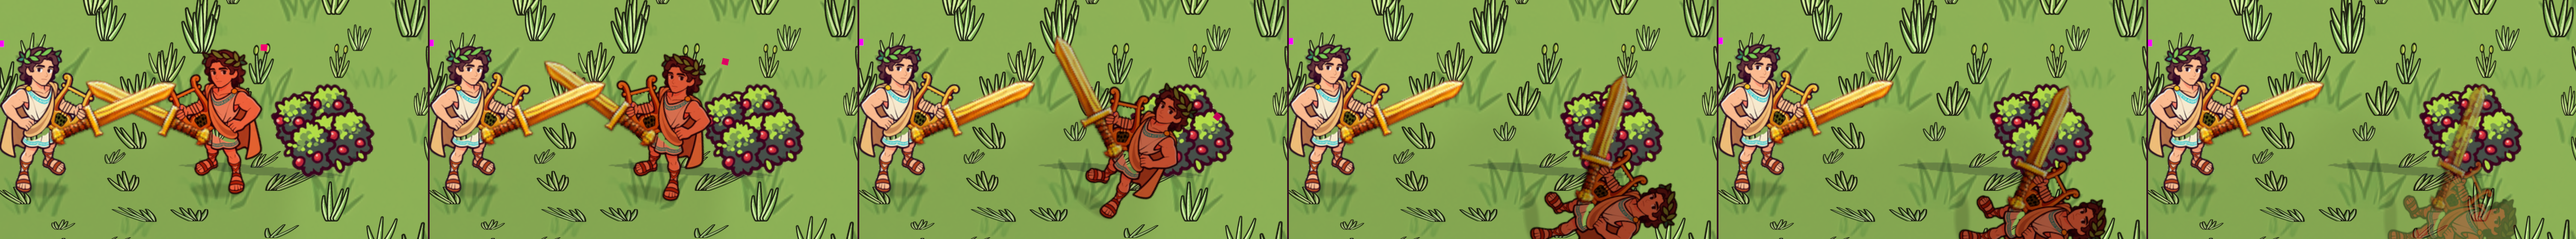
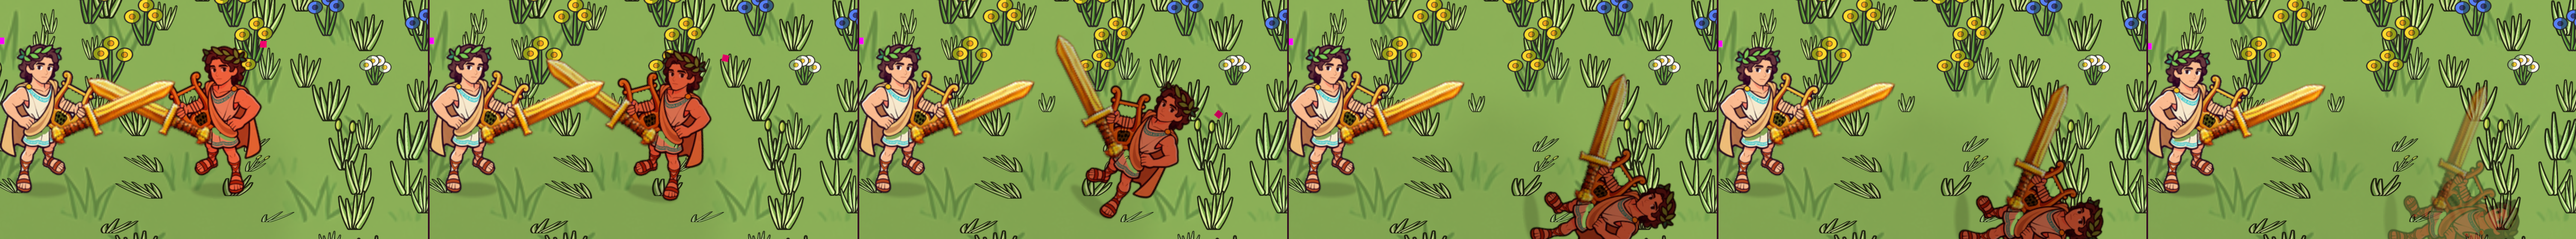
E3-4: журнал после слияния — переснятая лента (с 34 с, сцена южнее), снимки, backlog
Конфликты слияния f7f5b02 разрулены в merge-коммите; полный прогон
build_client -Smoke -HostSmoke на main — код 0. Кадры E3-4 пересняты,
просмотрены. Замечания П (утечка _deadAge, нет юнит-тестов на рантайм
клиента) — в backlog.

diff --git a/work/next.md b/work/next.md
@@ -66,7 +66,7 @@
 - [x] **C-025** ci.ps1 гоняет dotnet на скрытом рабочем столе (HiddenCi + env-блок против MSBuild-узлов) — **слито 17.11** (merge `0eb0e3f`, П принято с замечаниями). conhost от testhost/серверов/MSBuild на столе Автора 1→0; CI +14 с. Хвосты → backlog: stdin-таймаут шага, `Join-CmdLine` слэш перед кавычкой, ANSI env портит не-ASCII.
 - [x] **C-023** ч. 2: меч не проходит стык «лесенки» стен в полтайла — **слито 17.11** (merge `4bd8eb8`, оракул П принято): тест `C023_StrikeLine_HalfCellStaircase_Corner_Blocks` (5/5), общий обход ячеек 0,5 `FirstBlockedCellStep`/`CellSolidForStrike`, обёртка стрел эквивалентна (200/200 + 80/80, мутация убрана — тест красный); клиент host-smoke 0. Хвосты → backlog: тест необязательности концов отрезка (M2), субпиксельный срез ≤0,25 т.
 - [x] **C-026** хвосты C-025 в `ci.ps1` (таймаут шага, параллельный грейс, MSVC `Join-CmdLine`, тест-гард `-SelfTest`) — **слита 17.11**: плюс починка канализации stdin (`STARTUPINFOEX`+handle list, EOF 0,1 с; в Add-Type PS 5.1 `SECURITY_ATTRIBUTES` не применяется). SelfTest 0; CI 1238/1238, 172,6 с; П принято (мутации М1–М3 красные).
-- [ ] **3.4 (E3-4)** враги и удары видны: замах, попадание, смерть, снаряд — **в работе 17.11** (ветка `task/E3-4`, копия `te34`; только клиент: вид врага из снимка, сектор-призрак без дубля спрайта, силуэт за кроной, лента кадров).
+- [x] **3.4 (E3-4)** враги и удары видны: замах, попадание, смерть, снаряд — **слито 18.11** (merge `f7f5b02`, только клиент; П принято с замечаниями). Хвосты: утечка записей призрака `_deadAge` (backlog); снимок «силуэт за кроной» — проверить в 3.5; юнит-тестов на Unity-рантайм нет (мутация B выжила).
 - [x] **C-029** стройка и интерфейс после приёмки 2.8: один расчёт цели BuildCursor (смещение на клетку и снос верстака), пипетка (СКМ/G), дверь поверх стены, подсказки ингредиентов, остаток красным, карта M, шахматка «поштучно», без «С» — **слито 18.11** (П: два круга, принято). Хвосты: подсказка «не хватает» + «в сумке» одновременно; дверь без заказчика заменяет стену без возврата.
 - [x] **C-031** стрелы: стрела-предмет, подбор проходом, пропадание 10 мин вне экранов / предел 10 000, потолок полёта 10 с, непрерывная стрельба — **слито 18.11** (протокол 32, сейв 14; П принято). Хвосты: тесты «куча у персонажа не исчезает», «Covers и вода»; ограничить отправку куч за такт; вопросы Автору — попавшая в существо стрела, окно 52×32.
 - [x] **C-027** мир после приёмки: генератор v9 (глубина — стена для ходьбы, медь у старта, три вида леса, без троп), растения-декор, силуэт за горой — **слито 18.11** (П: вернуть → исправлено). Хвосты: силуэт только своего персонажа; ель/берёза — свои картинки (Мак); пол 13–15 исчерпал 4 бита; host-smoke один раз разошёлся на 410 ед. (кандидат во flaky).

diff --git a/work/tasks/E3-4.md b/work/tasks/E3-4.md
@@ -57,3 +57,12 @@
 2. **Нет снимка «силуэт за кроной»** (пункт 4 «Что сделать»): ленты его не показывают — реализация есть, визуальную проверку сделать в 3.5 (там же, что архетипы лучника/зверя).
 3. Формально чек-лист «сборка … код 0» не выполнен: код −1 (Unity виснет на выходе при `result=Succeeded errors=0`) — дефект окружения, не кода; smoke+host-smoke на HEAD-еже код 0. Принято по этим основаниям (записано в «Место остановки»).
 4. Косметика: XML-комментарий метода `Remote` (`/// </summary>`) отрезан новым полем `_remoteSeenFrame` (`NetAnimation.cs:113–116`) — doc «переехал» на поле.
+
+## После слияния (main, 18.11)
+
+Слияние `f7f5b02` с конфликтами (правил исполнитель, слияние — по «принято с замечаниями» выше):
+- `AnimShowcase.cs`: лента — порядок стрелки C-031 (24 с) → кирка C-028 (30,6 с) → **враги E3-4 перенумерованы на +9 с (с 34 с)**; в Save-префиксы добавлен `E3-4`.
+- `Objects.shader`, `WorldFx.cs`: смычка с C-027 — гора (world.z=2, маска `_OrphHeroMask`) сохранена, крона (z=1) — прозрачность по герою **и** 8 слотам `_OrphActors`; `baseY` — общий интерполятор.
+- Сцена врагов в ленте сдвинута на юг (y −12 → **−16**), чтобы болванки не попадали в широкий кадр C-031_hold (низ кадра y ≈ −12).
+- Пересборка Mono на main: полный прогон `build_client.ps1 -Backend Mono -Smoke -HostSmoke` — **код 0** (Unity-зависание на выходе не повторилось); smoke 153 снимка, 0 расхождений; host код 0 (`e34m_main_build.log`).
+- Лента переснята, 4 кадра E3-4 просмотрены глазами (содержание то же, что принято П); `work/screens/E3-4_*.png` обновлены. Кадры C-031_check (широкий) без красных болванок.

diff --git a/work/backlog.md b/work/backlog.md
@@ -252,3 +252,5 @@
 - [бой] (П E3-2) Линия удара меча `StrikeLineClear` (точки через 64 unit) пропускает удар через стык двух стен углом (как было у стрелы до правки): нужен тот же обход ячеек с проверкой угла (`Simulation.Projectiles.FirstBlockedStep`).
 - [сеть] (П E3-2) «Снаряд» (38) и «урон» (37) — по сообщению на событие и игрока; к шагу 3.3 (враги-стрелки, толпы) — пачка событий такта одним сообщением на игрока.
 - [вид] (П C-027) Силуэт за горой — только у своего персонажа: чужие игроки и враги за горой не видны (как и раньше: круг прозрачности был только свой). Если нужно — маска для всех существ в окне.
+- [вид] (П E3-4, 18.11) NetAnimation: запись призрака `_deadAge[id]` не снимается при удалении трупа из снимка — скрытый риг живёт до конца сессии (растёт словарь на каждый труп). Мелкая утечка; чинить отдельной карточкой с тестом на выгрузку записи.
+- [вид] (E3-4, 18.11) Нет юнит-тестов на Unity-рантайм клиента (SetSpriteVisible/дедуп призрака/слоты шейдера): мутация «дедуп выключен» выжила в CI. Придумать слой проверяемых клиентских инвариантов (чистые функции из NetAnimation).

diff --git a/work/status.md b/work/status.md
@@ -47,3 +47,4 @@
 17.11 C-023 ч. 2 слита (merge 4bd8eb8): тест стыка «лесенки» 5/5, FirstBlockedCellStep/CellSolidForStrike, обёртка стрел эквивалентна; оракул П принято (200/200+80/80, M1 убита); клиент host-smoke 0; хвосты (тест концов, субпиксельный срез) в backlog.
 17.11 C-026 слита: ci.ps1 — StepTimeoutSec (job-снятие, 258), грейс 60 с паралл., MSVC Join-CmdLine, -SelfTest; stdin через STARTUPINFOEX+handle list (EOF 0,1 с). SelfTest 0; CI 1238/1238, 172,6 с; П принято (М1–М3 красные).
 17.11 вечер: сборка Mono с main (80914c9) для приёмки 2.8 готова — build\client-win\Orpheus.exe + OrpheusServer.exe, Succeeded, 0 ошибок, 116 МБ; копия tc026 снесена (кроме пустого корня — держит чужой CWD, уйдёт после перезагрузки); ветка task/C-026 удалена. Ждём приёмку Автора.
+18.11 E3-4 слита (merge f7f5b02): только клиент — красный вид snapshot-врага, сектор-телеграф без дубля, вспышка/отдача на врагах, силуэт за кроной (шейдер _OrphActors[8]), лента E3-4_*.png (после C-028, с 34 с). П принято с замечаниями; CI 1238 зелёный; smoke+host-smoke 0. Конфликт ленты с C-028/C-031 разрулен. Копия te34 снесена.
